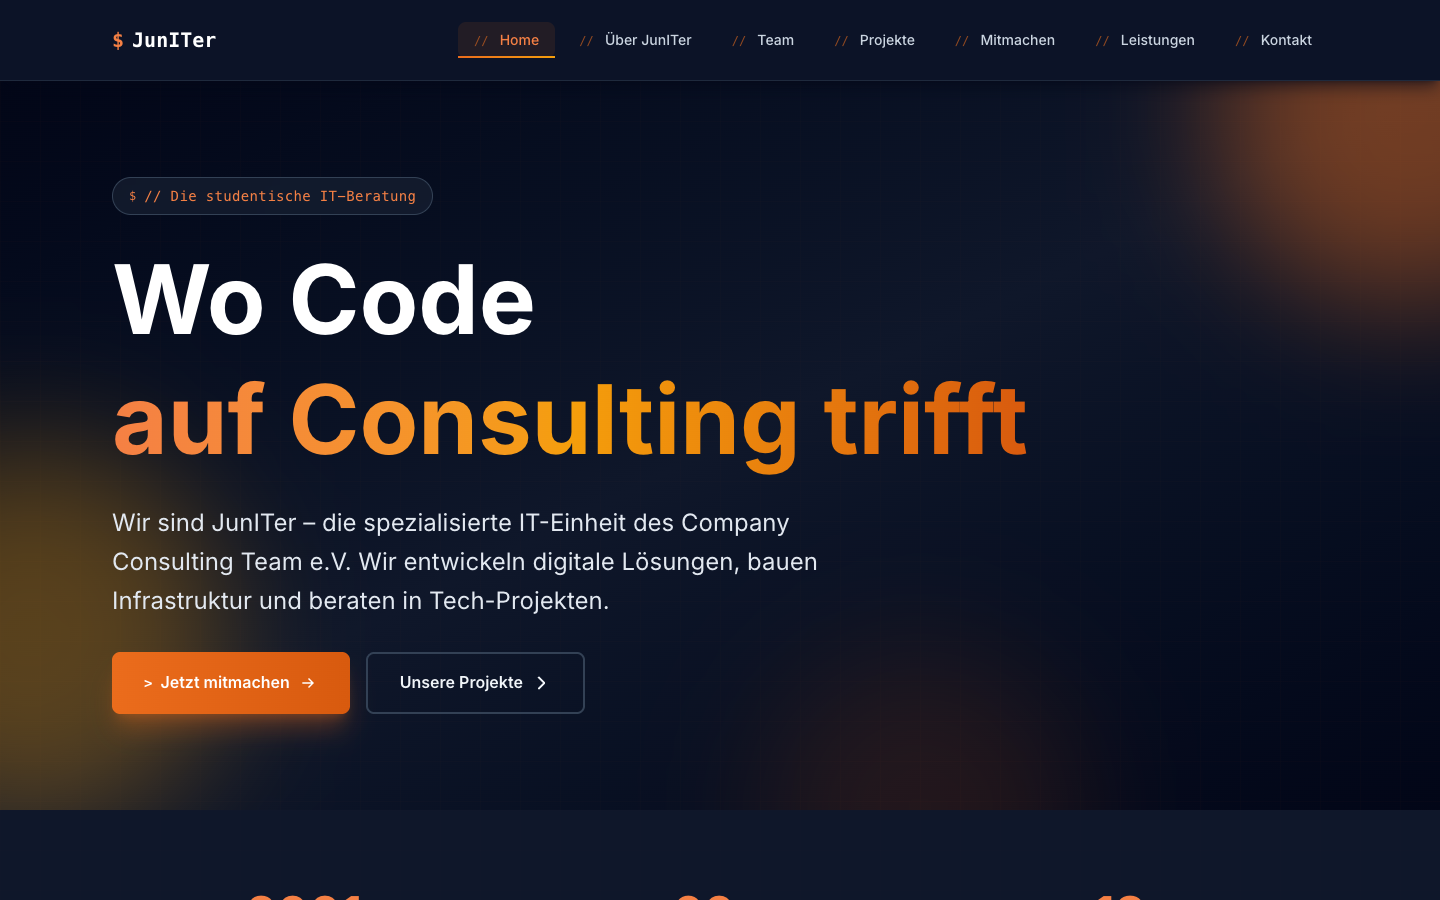
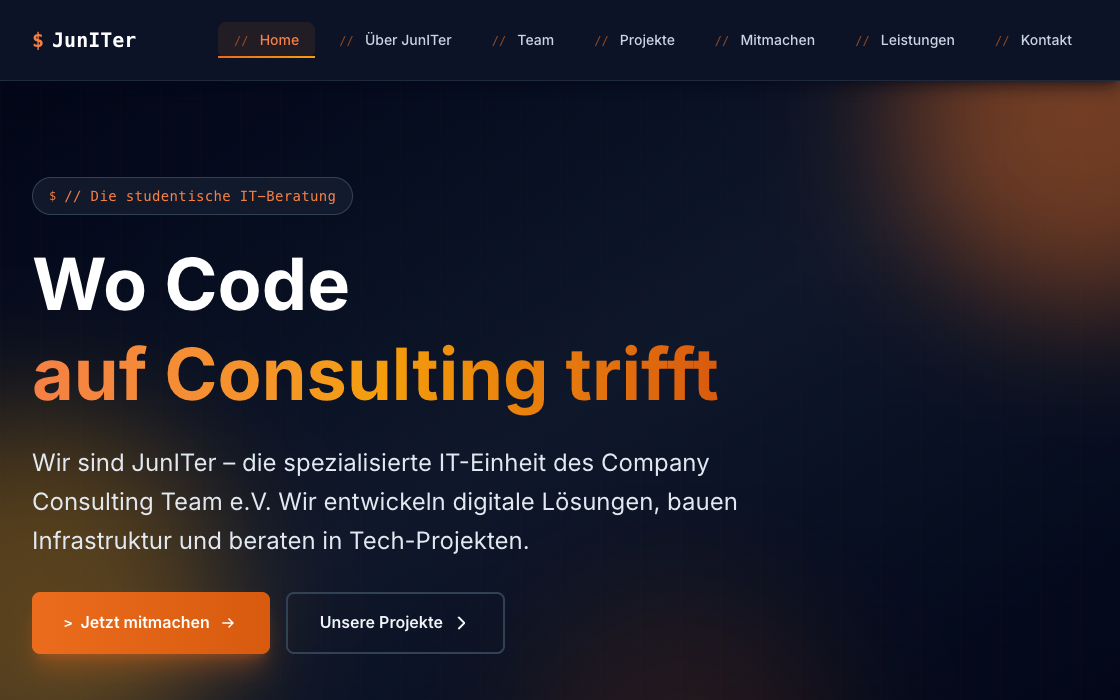
fix: aim the survey's knock-back at the plate beside it
One fixed step put a white page above the plate it belongs to and a dark
one under legibility, so each shot now declares its tone and gets its
own. The site is shot at the width that keeps its type readable, the
caption splits host from date, and the sheet drops the live link the
inset already is.

diff --git a/src/content.config.ts b/src/content.config.ts
@@ -37,7 +37,16 @@ const projects = defineCollection({
         // A screenshot of the live site, taken by scripts/shoot-previews.sh.
         // The date is when it was taken: the plate is a survey of the site,
         // not a window on it, and it says so under the frame.
-        preview: z.object({ src: image(), surveyed: z.coerce.date() }).optional(),
+        preview: z
+          .object({
+            src: image(),
+            surveyed: z.coerce.date(),
+            // Whether the site itself is light or dark. One knock-back for
+            // both lands a white page brighter than the plate it belongs to
+            // and a dark one below legibility; each tone gets its own.
+            tone: z.enum(['light', 'dark']),
+          })
+          .optional(),
       })
       .refine((p) => !p.preview || p.url, {
         message: 'a preview needs the url it was surveyed from',

diff --git a/src/styles/global.css b/src/styles/global.css
@@ -727,8 +727,18 @@
     aspect-ratio: 16 / 10;
     object-fit: cover;
     object-position: top center;
-    filter: saturate(0.5) brightness(0.8) contrast(1.05);
     transition: filter 0.2s ease;
+  }
+
+  /* Aimed at a value, not stepped down by a fixed amount: a white page and a
+     black one both have to land near the plate they sit beside, or the shot
+     outranks it or sinks under it. */
+  .sheet__shot[data-tone='light'] img {
+    filter: saturate(0.5) brightness(0.62) contrast(1.06);
+  }
+
+  .sheet__shot[data-tone='dark'] img {
+    filter: saturate(0.8) brightness(1.15) contrast(1.02);
   }
 
   .sheet__shot:hover img,
